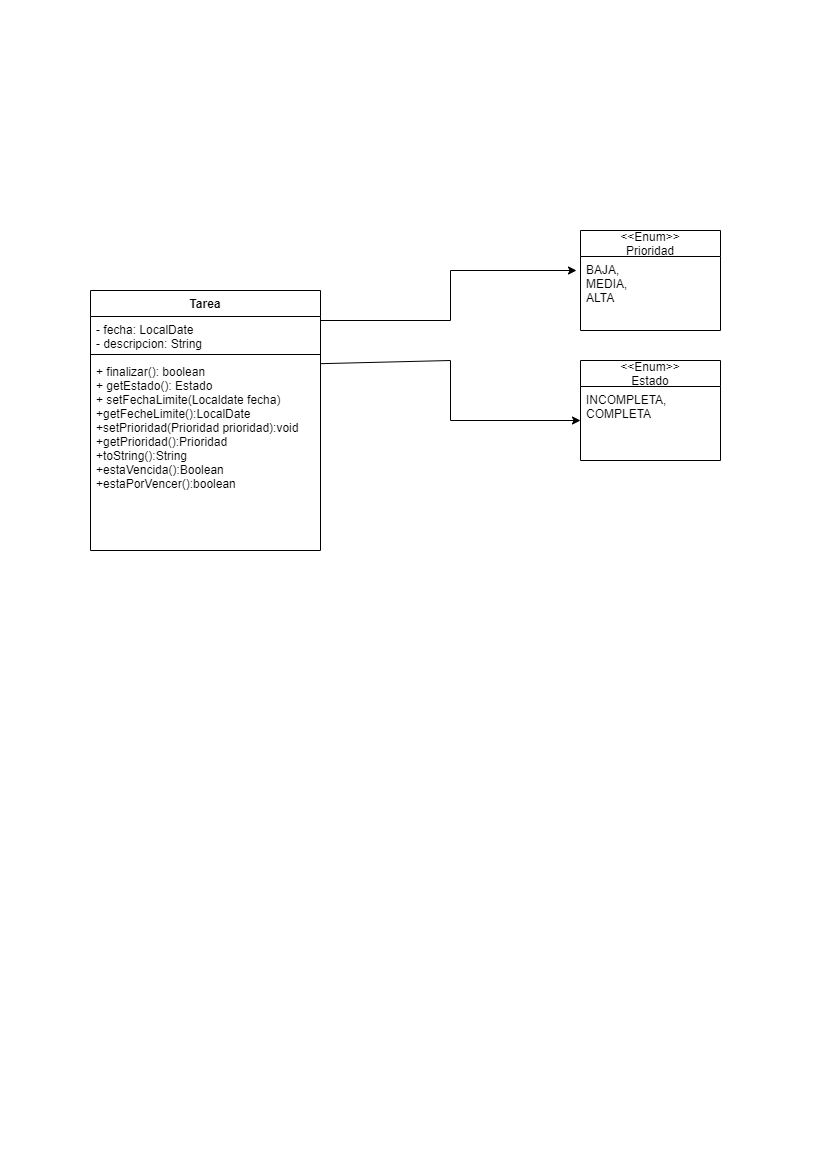
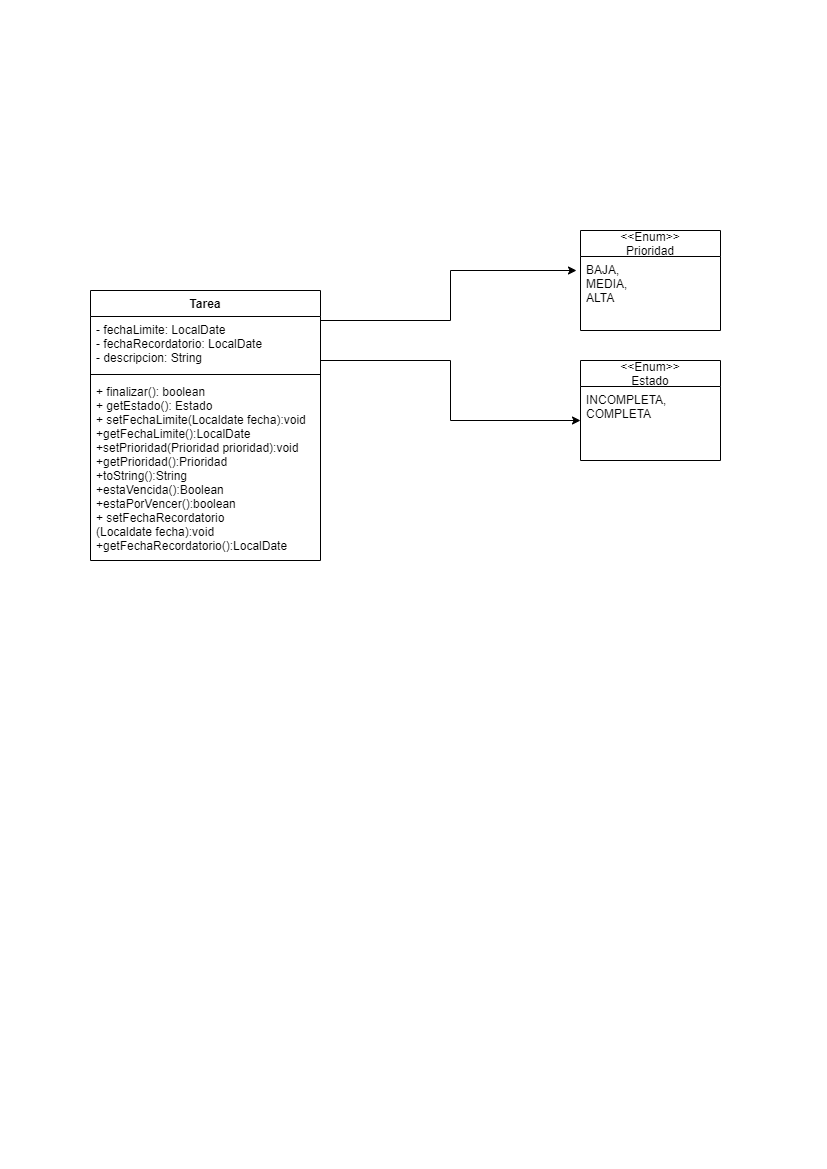
Imagenes UML actulizadas

Changed region(s): [[0.1209, 0.2772, 0.3628, 0.4927]]

diff --git a/src/unlu/poo/tarea/Tarea.java b/src/unlu/poo/tarea/Tarea.java
@@ -8,6 +8,8 @@ public class Tarea {
     private LocalDate fechaLimite;
     private LocalDate fechaRecordatorio;
 
+
+
     private LocalDate fechaFinalizacion;
     private String descripcion;
 
@@ -36,7 +38,9 @@ public class Tarea {
     }
     public Estado getEstado() {return estado;}
 
-
+    public LocalDate getFechaFinalizacion() {
+        return fechaFinalizacion;
+    }
     public void setPrioridad(Prioridad prioridad) {
         this.prioridad = prioridad;
     }

diff --git a/src/unlu/poo/administradorEjercicios/Ejercicio12.java b/src/unlu/poo/administradorEjercicios/Ejercicio12.java
@@ -1,9 +1,7 @@
 package unlu.poo.administradorEjercicios;
 
 import unlu.poo.tarea.AdministradorLista;
-import unlu.poo.tarea.Estado;
 import unlu.poo.tarea.Prioridad;
-import unlu.poo.tarea.Tarea;
 
 import java.time.LocalDate;
 
